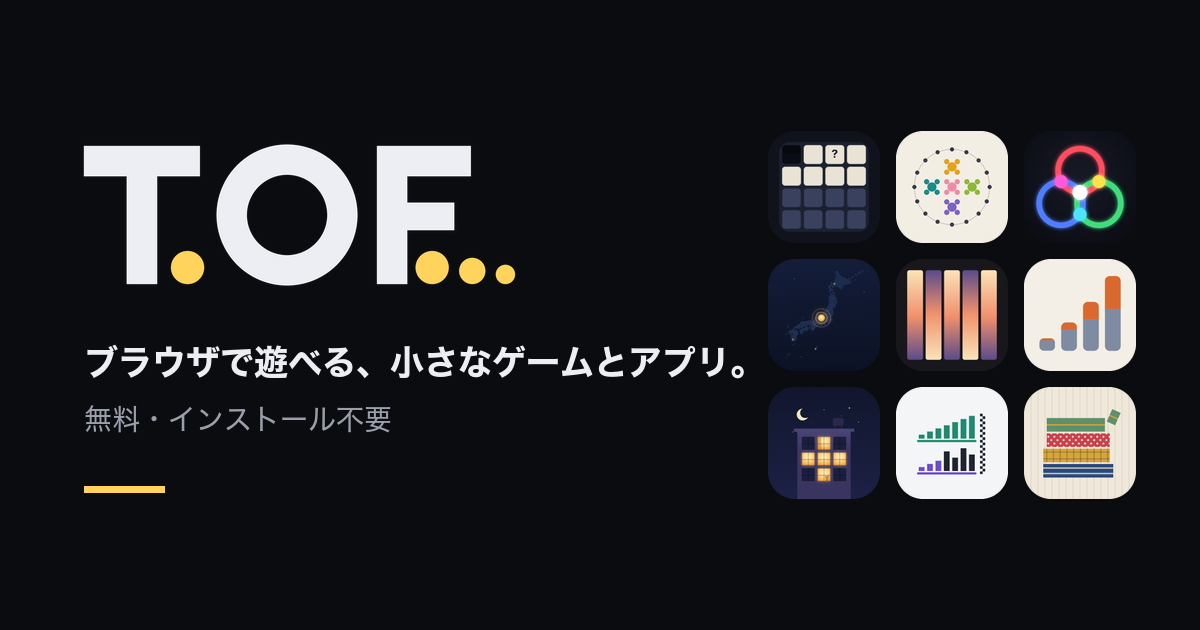
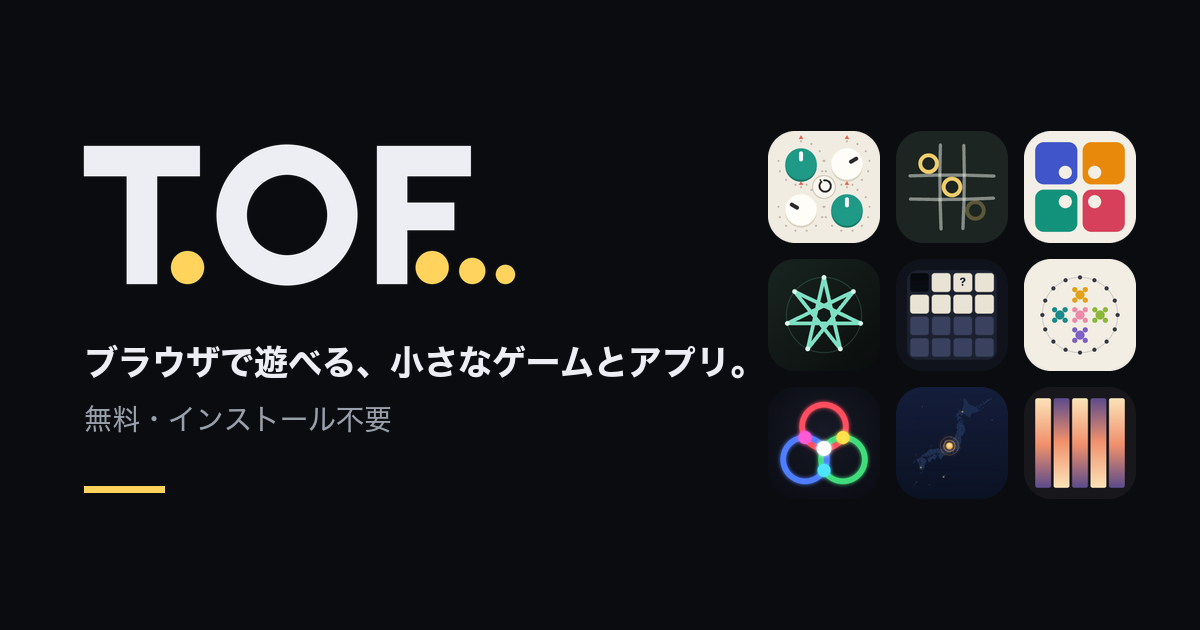
4 つの新しいアプリをポータルに追加する
よつまわし、ラストスリー、タップカルテット、数の模様を apps.js に追加し、make-icons.py で共有画像を再生成。

Changed region(s): [[0.6167, 0.181, 0.9558, 0.573], [0.6167, 0.6032, 0.9558, 0.8143], [0.8633, 0.4222, 0.9558, 0.573]]

diff --git a/apps.js b/apps.js
@@ -13,6 +13,46 @@
 
 window.TOFO_APPS = [
   {
+    id: 'yotsumawashi',
+    name: 'よつまわし',
+    title: '4本ずつ回して上に向ける',
+    desc: '並んだ針を、4 本ずつまとめて回して全部真上に向けるパズル。1 本を直すととなりがずれるので、どこから回すかを考えて、なるべく少ない手数でそろえる。',
+    category: 'game',
+    tags: ['パズル', '回転'],
+    icon: '/yotsumawashi/icons/icon-192.png',
+    color: '#1f9a86',
+  },
+  {
+    id: 'last-three',
+    name: 'LAST THREE',
+    title: '残るのは新しい 3 つだけ',
+    desc: '○と×を交互に置いて、縦・横・斜めに 3 つ並べたら勝ち。ただし盤に残るのは自分の新しい 3 つだけで、4 つ目を置くと一番古い印が消える。CPU 対戦・ふたり対戦。',
+    category: 'game',
+    tags: ['対戦', 'CPU'],
+    icon: '/last-three/icons/icon-192.png',
+    color: '#f1cd6a',
+  },
+  {
+    id: 'tap-quartet',
+    name: 'TAP QUARTET',
+    title: '指で遊ぶ 4 つの腕だめし',
+    desc: '目かくしで 10 秒を当てる、合図にすばやく反応する、出た文字を打つ、ふたりで連打する。1 回 30 秒ほどの 4 つのミニゲームで、自己ベストを塗り替える。',
+    category: 'game',
+    tags: ['ミニゲーム', 'ふたり'],
+    icon: '/tap-quartet/icons/icon-192.png',
+    color: '#3f55c9',
+  },
+  {
+    id: 'number-patterns',
+    name: '数の模様',
+    title: 'つまみで変わる数学の模様',
+    desc: '素数のらせん・星形・マンデルブロ集合など、数と円が描く模様を切り替えて眺める。つまみで数を変えると、模様がその場で形を変える。',
+    category: 'tool',
+    tags: ['数学', '模様'],
+    icon: '/number-patterns/icons/icon-192.png',
+    color: '#7ee0c3',
+  },
+  {
     id: 'kazukakushi',
     name: 'かずかくし',
     title: '番号の見えない15パズル',
